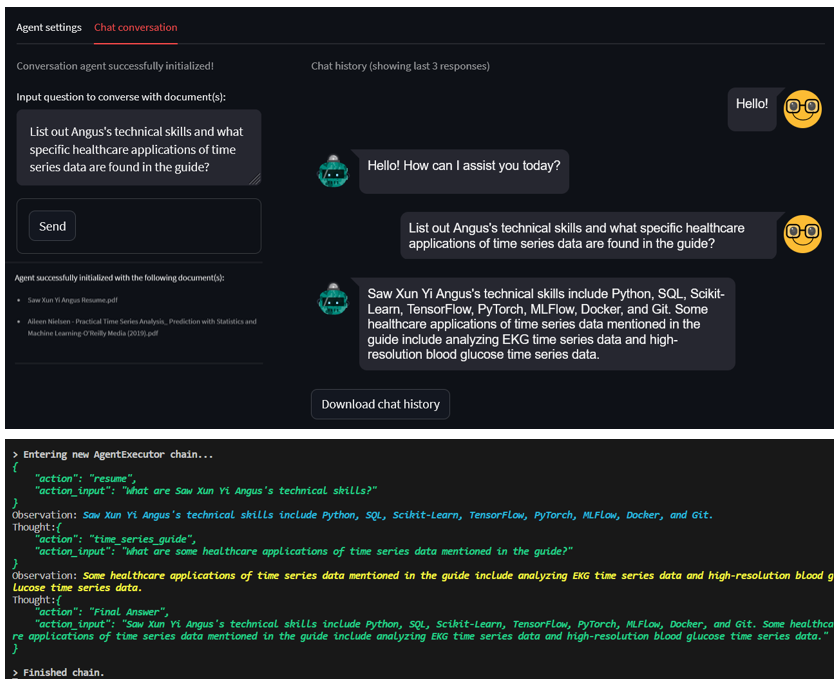
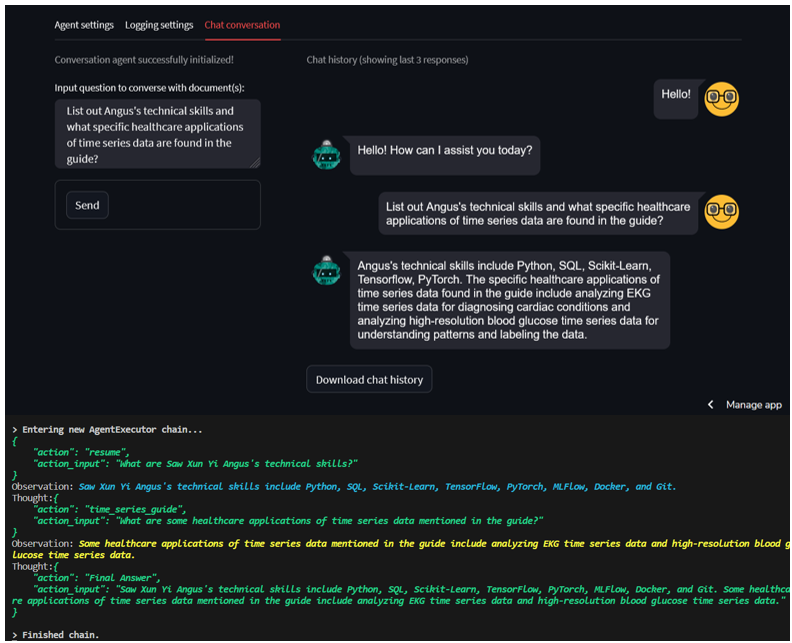
Added logging and evaluation section for qa app

diff --git a/projects/qa-app/qa-app.html b/projects/qa-app/qa-app.html
@@ -27,6 +27,7 @@
 					<li><a href="#embeddings_vector_stores">Embeddings and Vector Stores</a></li>
                     <li><a href="#retrieval_qa_chains">Retrieval QA Chains</a></li>
 					<li><a href="#conversational_agents">Conversational Agents</a></li>
+                    <li><a href="#logging_evaluating_responses">Logging and Evaluating Responses</a></li>
 					<li><a href="#future_improvements">Future Improvements</a></li>
 
 				</ul>
@@ -69,8 +70,9 @@
 									<li>Vector Stores (Chroma)</li>
 									<li>Text Embeddings</li>
 									<li>Hugging Face</li>
-                                    <li>GPT-4</li>
+                                    <li>GPT-3.5-turbo / GPT-4</li>
 									<li>LangChain (RetrievalQA chains + Conversation Agents)</li>
+                                    <li>Weights & Biases</li>
                                     <li>Prompt Tuning</li>
                                     <li>Streamlit</li>
                                 </ul>
@@ -228,7 +230,7 @@
                                    can decide which tool to use.</strong> This enables the chatbot to be dynamic in using its ensemble of retrieval QA chains that 
                                    it's provided with.
                                 </p>
-                                <a class="image"><img src="images/creating_agent.png" width="650" height="400"/></a>
+                                <a class="image"><img src="images/creating_agent.png" width="750" height="350"/></a>
 
                                 <p>The agent type used in this application is a <strong>CHAT_CONVERSATIONAL_REACT_DESCRIPTION</strong>. 
                                    This agent type is used with a memory component in order to account for historical responses when chatting 
@@ -260,6 +262,27 @@
 
                                 <a class="image"><img src="images/agent_chain_example.png" width="750" height="600"/></a>
                                 
+                            </div>
+                        </section>
+
+                        <section id="logging_evaluating_responses">
+							<div class="container">
+								<h4>Logging and Evaluating Responses</h4>
+
+                                <p>The queries from the user and responses generated by the conversation agent in each session can be logged to a
+                                    <strong>Weights & Biases</strong> project under a specific run. Weights & Biases is an MLOps platform that can
+                                    implement monitoring and tracing of LLMs over time in complex interactions. </p>
+
+                                <p>In the Weights & Biases workspace for a specific run, the list of traces are displayed according to each prompt and response pair.
+                                    Each trace comprises of the input, output and the overall chain used to generate the output, 
+                                    while their <strong>trace timeline view</strong> displays the detail of each step that the conversation agent took to get the result.</p>
+
+                                <a class="image"><img src="images/wandb_workspace.png" width="800" height="375"/></a>
+
+                                <p>The view provides valuable insights on how and where specific chain(s) might have gone wrong, making it useful for debugging the
+                                    conversation agent to prevent issues arising for future response generations. The view can also be used to improve
+                                    the conversation agent and to make it more successful in generating accurate and relevant responses.</p>
+
                             </div>
                         </section>
 
